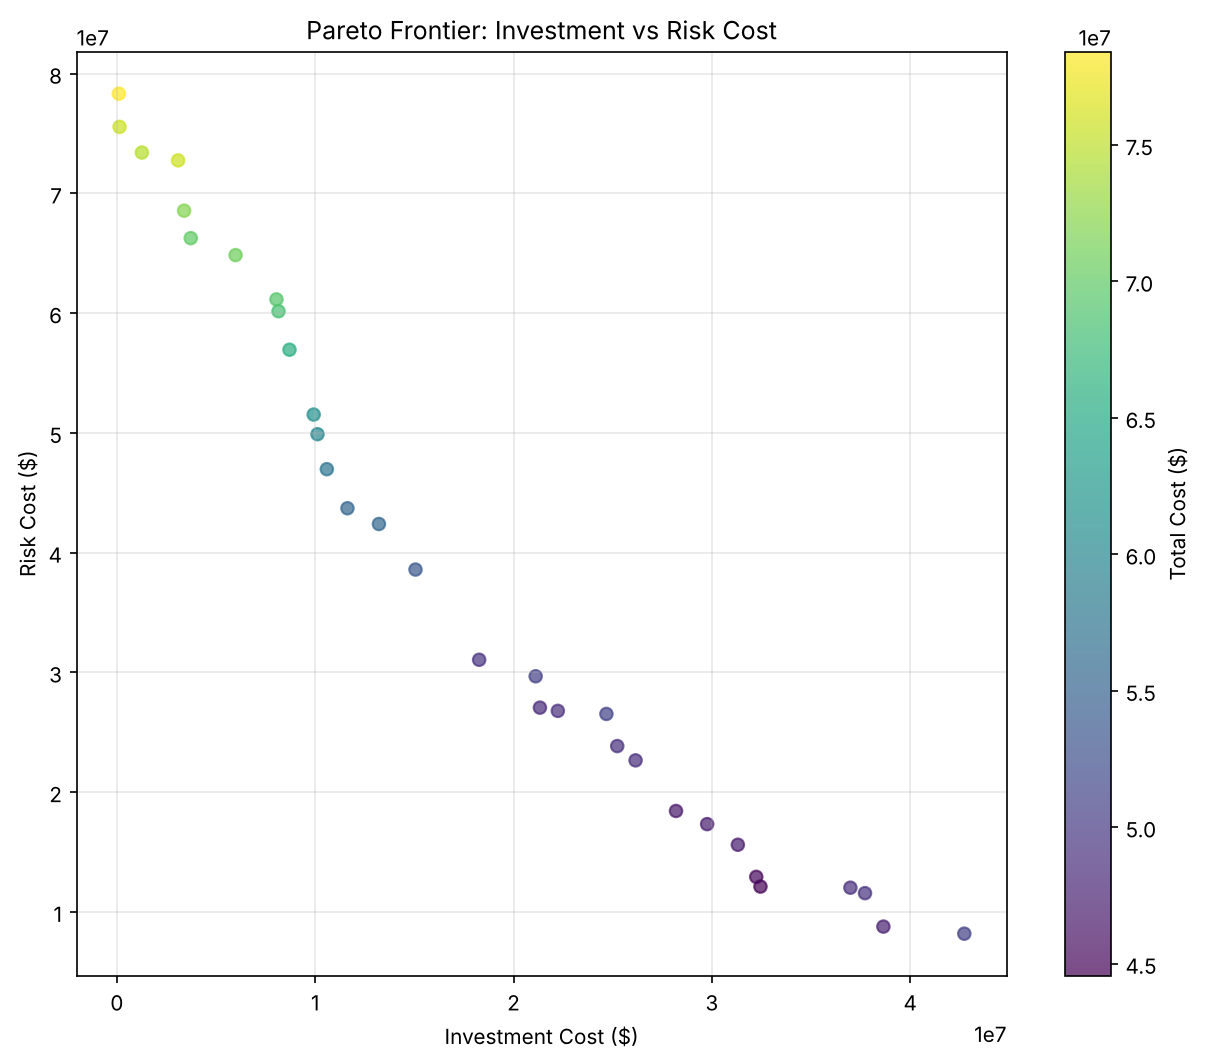
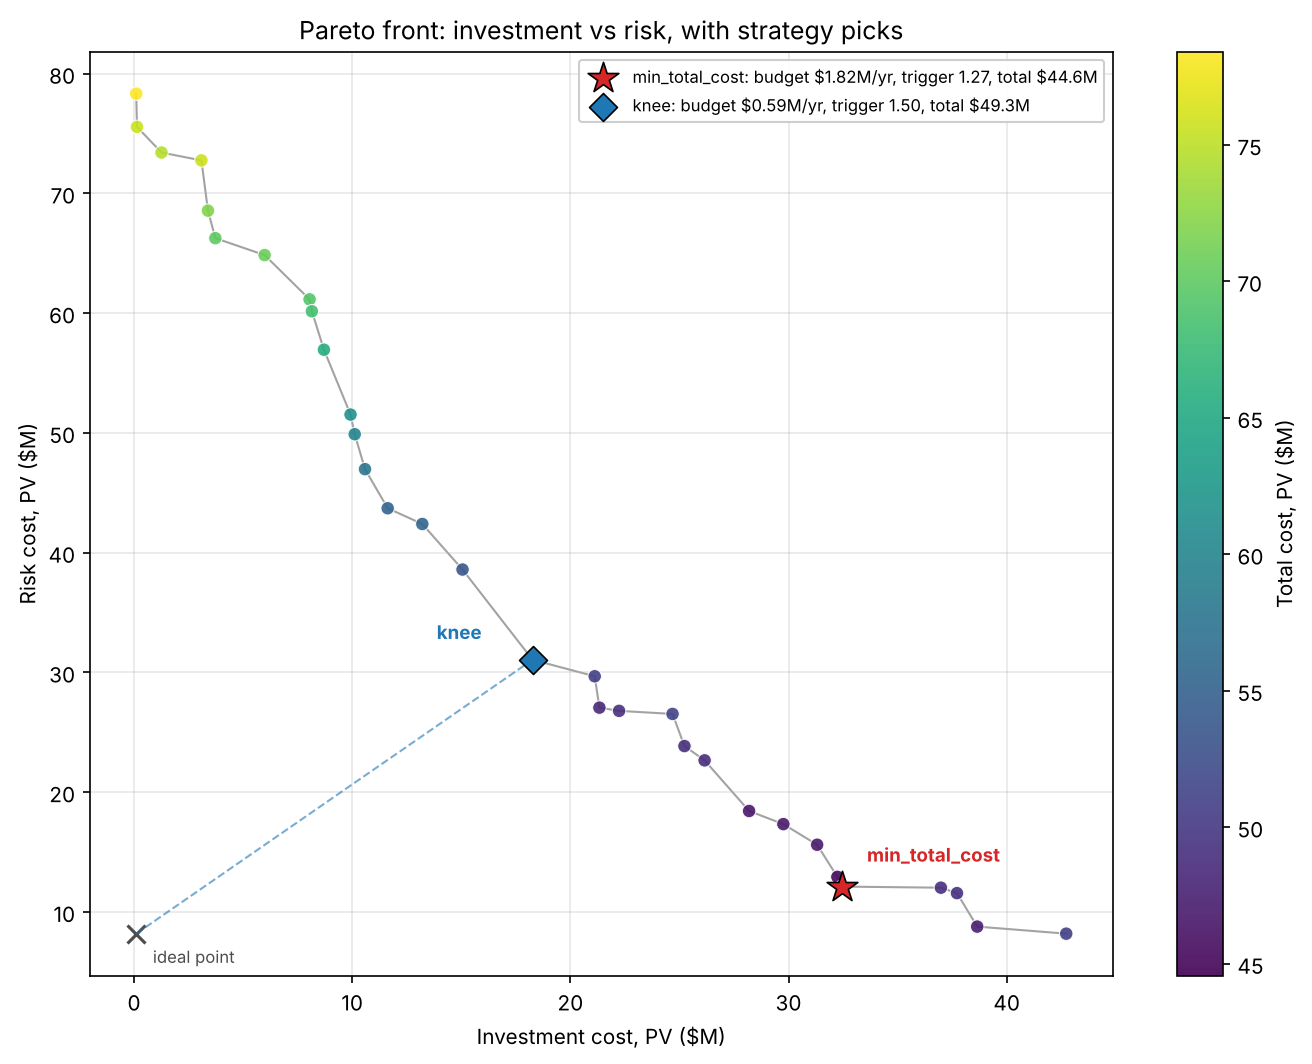
Mark strategy picks and ideal point on the Pareto front plot
optimization_curve.png was a scatter coloured by total cost with no
indication of which point the plan was built from or where the knee
sits, so the front could not actually be inspected for the trade-off
it represents. The front is now drawn as a connected curve in order of
investment; the min_total_cost pick (star) and the knee pick (diamond)
are marked and labelled with their budget, trigger and total; the ideal
point is shown with a dashed line to the knee so "closest to ideal" is
visible rather than asserted. Axes in $M present value. Dollar signs in
labels are escaped so matplotlib does not read them as mathtext.

Regenerated from the committed nsga2_results.csv; no optimizer re-run.

Claude-Session: https://claude.ai/code/session_01KhaeDNtwMvysGWAzHLMNCp

diff --git a/leyp_optimizer.py b/leyp_optimizer.py
@@ -308,33 +308,68 @@ def run_optimization():
 
 
 def plot_cost_curves(df, output_dir):
-    """
-    Generate cost curve visualization (Investment vs Risk costs).
-    
-    Args:
-        df: Results DataFrame with Investment_Cost, Risk_Cost columns
-        output_dir: Directory for output files
-    """
-    # Create pareto front plot
-    plt.figure(figsize=(10, 8))
-    scatter = plt.scatter(
-        df["Investment_Cost"],
-        df["Risk_Cost"],
-        c=df["Total_Cost"],
-        cmap="viridis",
-        alpha=0.7
-    )
-    plt.colorbar(scatter, label="Total Cost ($)")
+    """Plot the Pareto front with both strategy picks and the ideal point marked.
 
-    # Format and save cost curve plot
-    plt.xlabel("Investment Cost ($)")
-    plt.ylabel("Risk Cost ($)")
-    plt.title("Pareto Frontier: Investment vs Risk Cost")
-    plt.grid(True, alpha=0.3)
+    The front is drawn in order of investment so it reads as a trade-off curve.
+    The ``min_total_cost`` pick (lowest investment + risk) and the ``knee`` pick
+    (closest to the ideal point once both axes are normalised) are both marked,
+    with a dashed line from the ideal point to the knee so "closest to ideal" is
+    visible rather than asserted. Axes are in $M, present value.
+
+    Args:
+        df: Results DataFrame with Investment_Cost, Risk_Cost, Budget,
+            Rehab_Trigger and Total_Cost (annotated with Ideal_Distance if not
+            already).
+        output_dir: Directory for output files.
+    """
+    if "Ideal_Distance" not in df.columns:
+        df = annotate_front(df)
+    front = df.sort_values("Investment_Cost")
+    inv_m, risk_m = front["Investment_Cost"] / 1e6, front["Risk_Cost"] / 1e6
+
+    fig, ax = plt.subplots(figsize=(11, 8))
+    ax.plot(inv_m, risk_m, "-", color="0.55", linewidth=1, alpha=0.8, zorder=1)
+    scatter = ax.scatter(
+        inv_m, risk_m, c=front["Total_Cost"] / 1e6, cmap="viridis",
+        s=42, alpha=0.9, zorder=2, edgecolors="white", linewidths=0.5,
+    )
+    fig.colorbar(scatter, ax=ax, label="Total cost, PV ($M)")
+
+    # Ideal point and the two picks.
+    ideal = (df["Investment_Cost"].min() / 1e6, df["Risk_Cost"].min() / 1e6)
+    ax.plot(*ideal, "x", color="0.3", markersize=9, markeredgewidth=1.5, zorder=3)
+    ax.annotate("ideal point", ideal, xytext=(8, -14), textcoords="offset points",
+                fontsize=8, color="0.3")
+
+    picks = (
+        ("min_total_cost", "*", "tab:red", 240, (12, 12)),
+        ("knee", "D", "tab:blue", 90, (-46, 10)),
+    )
+    for method, marker, colour, size, offset in picks:
+        row = df.loc[select_strategy(df, method)]
+        x, y = row["Investment_Cost"] / 1e6, row["Risk_Cost"] / 1e6
+        ax.scatter([x], [y], marker=marker, s=size, color=colour,
+                   edgecolors="black", linewidths=0.8, zorder=4,
+                   # Dollar signs are escaped: matplotlib otherwise reads them
+                   # as mathtext delimiters and italicises the text between.
+                   label=(f"{method}: budget \\${row['Budget']/1e6:.2f}M/yr, "
+                          f"trigger {row['Rehab_Trigger']:.2f}, "
+                          f"total \\${row['Total_Cost']/1e6:.1f}M"))
+        ax.annotate(method, (x, y), xytext=offset, textcoords="offset points",
+                    fontsize=9, color=colour, fontweight="bold")
+        if method == "knee":
+            ax.plot([ideal[0], x], [ideal[1], y], "--", color="tab:blue",
+                    linewidth=1, alpha=0.6, zorder=3)
+
+    ax.set_xlabel("Investment cost, PV ($M)")
+    ax.set_ylabel("Risk cost, PV ($M)")
+    ax.set_title("Pareto front: investment vs risk, with strategy picks")
+    ax.grid(True, alpha=0.3)
+    ax.legend(loc="upper right", fontsize=8, framealpha=0.95)
 
     cost_curve_path = os.path.join(output_dir, "optimization_curve.png")
-    plt.savefig(cost_curve_path, dpi=150, bbox_inches="tight")
-    plt.close()
+    fig.savefig(cost_curve_path, dpi=150, bbox_inches="tight")
+    plt.close(fig)
     print(f"Cost curve saved to {cost_curve_path}")
 
 
